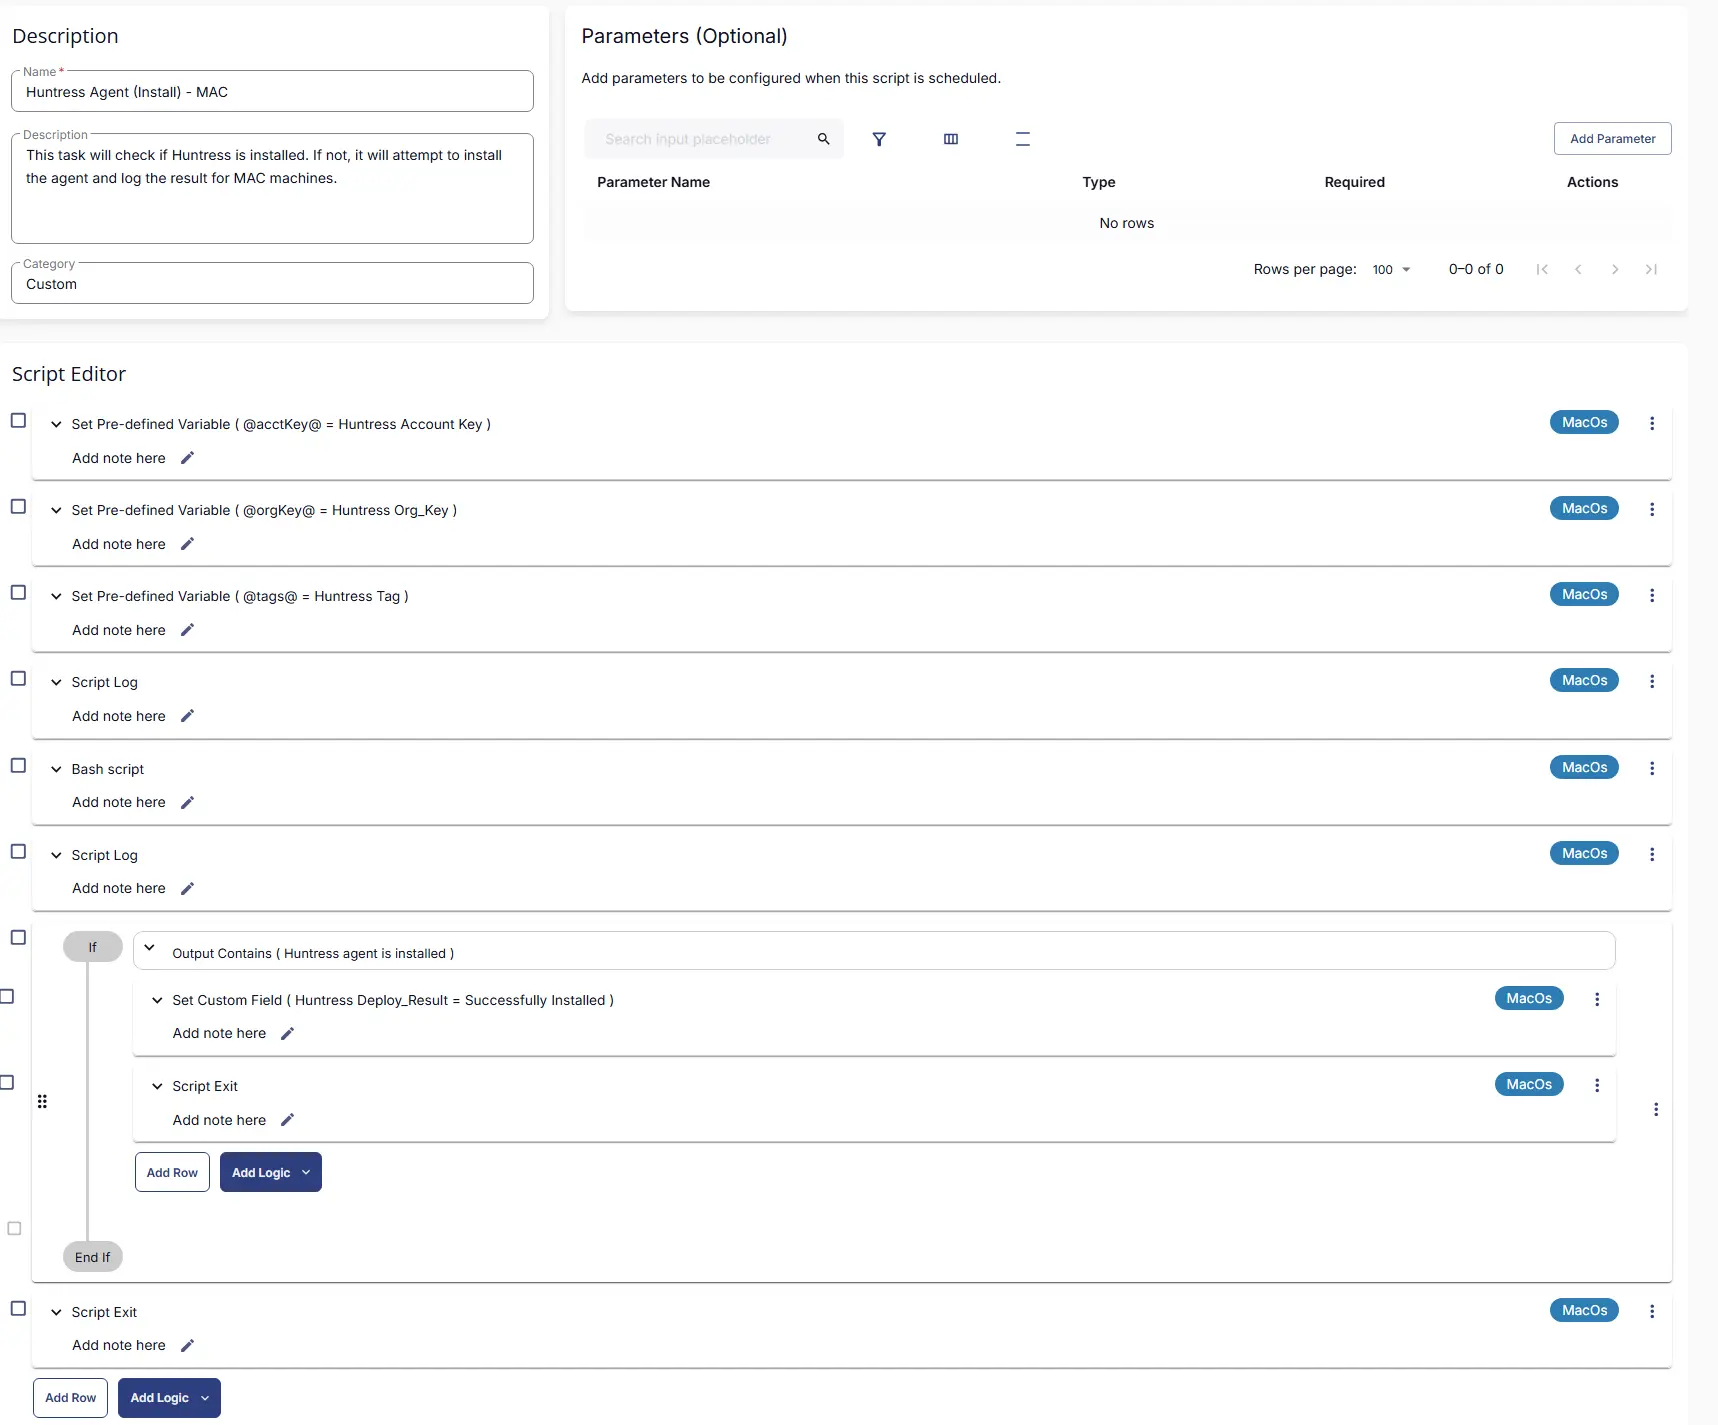
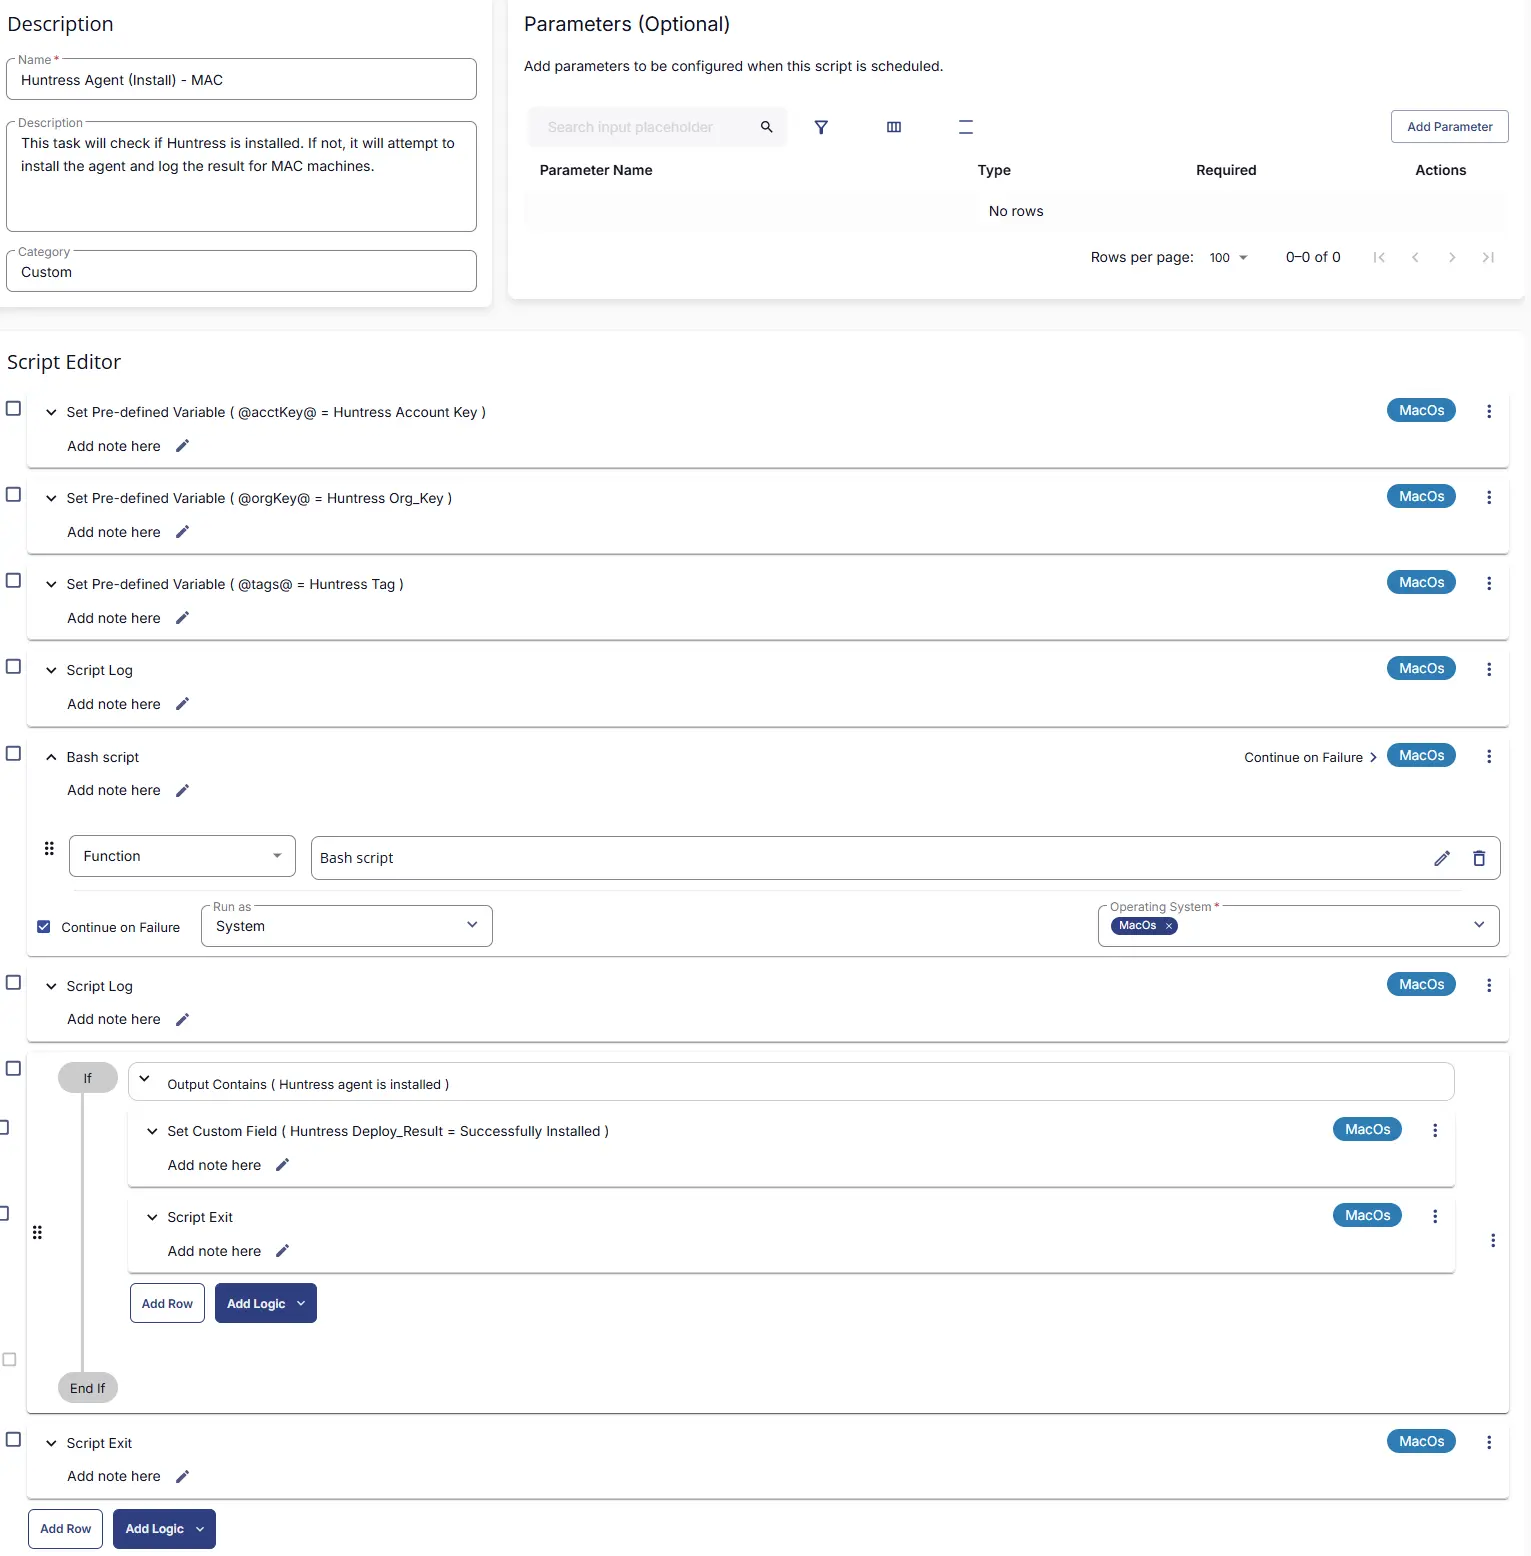
Bug Fixes
- Updated the script to write the installation script instead of downloading it

diff --git a/docs/cwrmm/tasks/huntress-agent-install-mac.md b/docs/cwrmm/tasks/huntress-agent-install-mac.md
@@ -16,8 +16,6 @@ This task will first check if Huntress is installed. If it is not, the script wi
 
 ## Create Script
 
-
-
 - Go to `Automation` > `Tasks`
 - At the top-right corner, click on the `Add` dropdown menu and select `Script Editor`
  
@@ -93,27 +91,230 @@ Paste the following PowerShell script and set the expected script execution time
 ```bash
 #!/bin/bash
 
-# Check if Huntress is installed
-if command -v huntress &> /dev/null
+# Variables
+organization_key="@orgKey@"
+tags="@tags@"
+account_key="@acctKey@"
+install_script="/tmp/HuntressMacInstall.sh"
+
+# Clean up any old installer scripts.
+if [ -f "$install_script" ]
 then
-    echo "Huntress agent is installed already."
-    exit 0
-else
-    echo "Huntress is not installed. Proceeding with installation."
+    echo "Installer file present in /tmp; deleting."
+    rm -f "$install_script"
 fi
 
-# Download the Huntress installation script
-curl -o /tmp/HuntressMacInstall.sh -L "https://huntress.io/script/darwin/@acctKey@"
+# Write the Huntress installation script
+# Usually downloaded from "https://huntress.io/script/darwin/$account_key"
+# Writing it instead because downloaded file is not running the download command silently
+# CW RMM script fails if the curl command returns any output
+cat >"$install_script"<<'EOF'
+#!/bin/bash
+
+declare account_key
+declare organization_key
+declare tags
+declare api_url
+declare eetee_url
+declare allow_http=false
+declare verbose=0
+declare interactive=1
+declare install_system_extension=0
+declare -a ARGS
+declare portal_url="https://huntress.io"
+declare package_file=
+ARGS=()
+
+usage() {
+    cat <<USAGE
+Usage: $0 [options...] --account_key <account_key> --organization_key <organization_key>
+
+-a, --account_key      <account_key>      The account key to use for this agent install
+-o, --organization_key <organization_key> The org key to use for this agent install
+-t, --tags             <tags>             A comma-separated list of agent tags
+-v, --verbose                             Print info during install
+    --batch_only                          Do not prompt the user for missing info
+    --install_system_extension            Install system extension (will prompt user to approve)
+-h, --help                                Print this message
+
+USAGE
+}
+
+while [[ $# -gt 0 ]]; do
+    key="$1"
+
+    case $key in
+        -a|--account_key)
+            account_key="$2"
+            shift
+            shift
+            ;;
+        --batch_only)
+            interactive=0
+            shift
+            ;;
+        -o|--organization_key)
+            organization_key="$2"
+            shift
+            shift
+            ;;
+        -t|--tags)
+            tags="$2"
+            shift
+            shift
+            ;;
+        --install_system_extension)
+            install_system_extension=1
+            shift
+            ;;
+        -v|--verbose)
+            verbose=1
+            shift
+            ;;
+        -h|--help)
+            usage
+            exit
+            ;;
+        # these are more or less hidden options. Only used for debugging
+        -f|--package-file)
+            package_file="$2"
+            shift
+            shift
+            ;;
+        -p|--portal_url|--portal-url)
+            portal_url="$2"
+            shift
+            shift
+            ;;
+        -u|--api_url|--api-url)
+            api_url="$2"
+            allow_http=true
+            shift
+            shift
+            ;;
+        --eetee_url|--eetee-url)
+            eetee_url="$2"
+            allow_http=true
+            shift
+            shift
+            ;;
+        *)
+            ARGS+=($1)
+            shift
+            ;;
+    esac
+done
+
+set -- "${ARGS[@]}"
+
+# ask the user for the account key if not passed in and we are
+# "interactive" (see --batch_only)
+if [[ -z $account_key && $interactive -eq 1 ]]
+then
+    echo -n "Account Key: "
+    read account_key
+fi
+
+# ask the user for the organization key if not passed in and we are
+# "interactive" (see --batch_only)
+if [[ -z $organization_key && $interactive -eq 1 ]]
+then
+    echo -n "Organization Key: "
+    read organization_key
+fi
+
+# account key and organization key are required
+if [[ -z $account_key || -z $organization_key ]]
+then
+    echo Error: --account_key and --organization_key are both required
+    echo
+    usage
+    exit 1
+fi
+
+declare installer_config="/tmp/hagent.yaml"
+
+[[ $verbose -eq 1 ]] && echo creating "$installer_config"...
+
+# create the hagent.yaml file used by the postinstall script to build
+# the AgentConfig.plist file
+cat >"$installer_config" <<CONFIG
+account_key: $account_key
+organization_key: $organization_key
+api_url: $api_url
+allow_http: $allow_http
+install_system_extension: $install_system_extension
+tags: $tags
+CONFIG
+
+if [ -n "$eetee_url" ]; then
+    echo "eetee_url: $eetee_url" >>"$installer_config"
+fi
+
+huntress_pkg=/tmp/HuntressAgent.pkg
+
+if [ -n "$package_file" ]; then
+  if [ -f "$package_file" ]; then
+    cp -f "$package_file" "$huntress_pkg"
+  else
+    echo "$package_file" was not found
+    exit 1
+  fi
+else
+  # download the HuntressAgent.pkg file from S3
+  status_code=$(curl -f -L -o "$huntress_pkg" -w %{http_code} "$portal_url/download/darwin/$account_key" --silent)
+
+  if [ $? != 0 ]; then
+    if [ "$status_code" = "400" ]; then
+      echo "Account Key not valid."
+    elif [ "$status_code" = "404" ]; then
+      echo "File not found on S3."
+    elif [ "$status_code" = "409" ]; then
+      echo "The macOS Beta has not been enabled for this account."
+    fi
+    exit 1
+  elif ! [ -f "$huntress_pkg" ]; then
+    echo "File download failed."
+    exit 1
+  fi
+fi
+
+[[ $verbose -eq 1 ]] && echo running the installer...
+
+# run the install
+installer -pkg "$huntress_pkg" -target / || echo "Installation failed."
+
+[[ $verbose -eq 1 ]] && echo cleaning up...
+
+rm "$installer_config"
+rm "$huntress_pkg"
+EOF
+
+if [ ! -f "$install_script" ]
+then
+    echo "Failed to download the installer script."
+    exit 1
+else
+    echo "Downloaded the installer script."
+fi
 
 # Execute the installation script
-bash /tmp/HuntressMacInstall.sh -a @acctKey@ -o "@orgKey@" -t "@tags@"
+chmod +x "$install_script"
+if [ -z "$tags" ]
+then
+    /bin/bash "$install_script" --account_key "$account_key" --organization_key "$organization_key" --verbose
+else 
+    /bin/bash "$install_script" --account_key "$account_key" --organization_key "$organization_key" -tags "$tags" -verbose
+fi
 
 # Revalidate if Huntress is installed
-if command -v huntress &> /dev/null
+if [ -d "/Applications/Huntress.app" ]
 then
     echo "Huntress agent is installed successfully."
+    exit 0
 else
     echo "Failed to install Huntress."
+    exit 1
 fi
 ```
 
